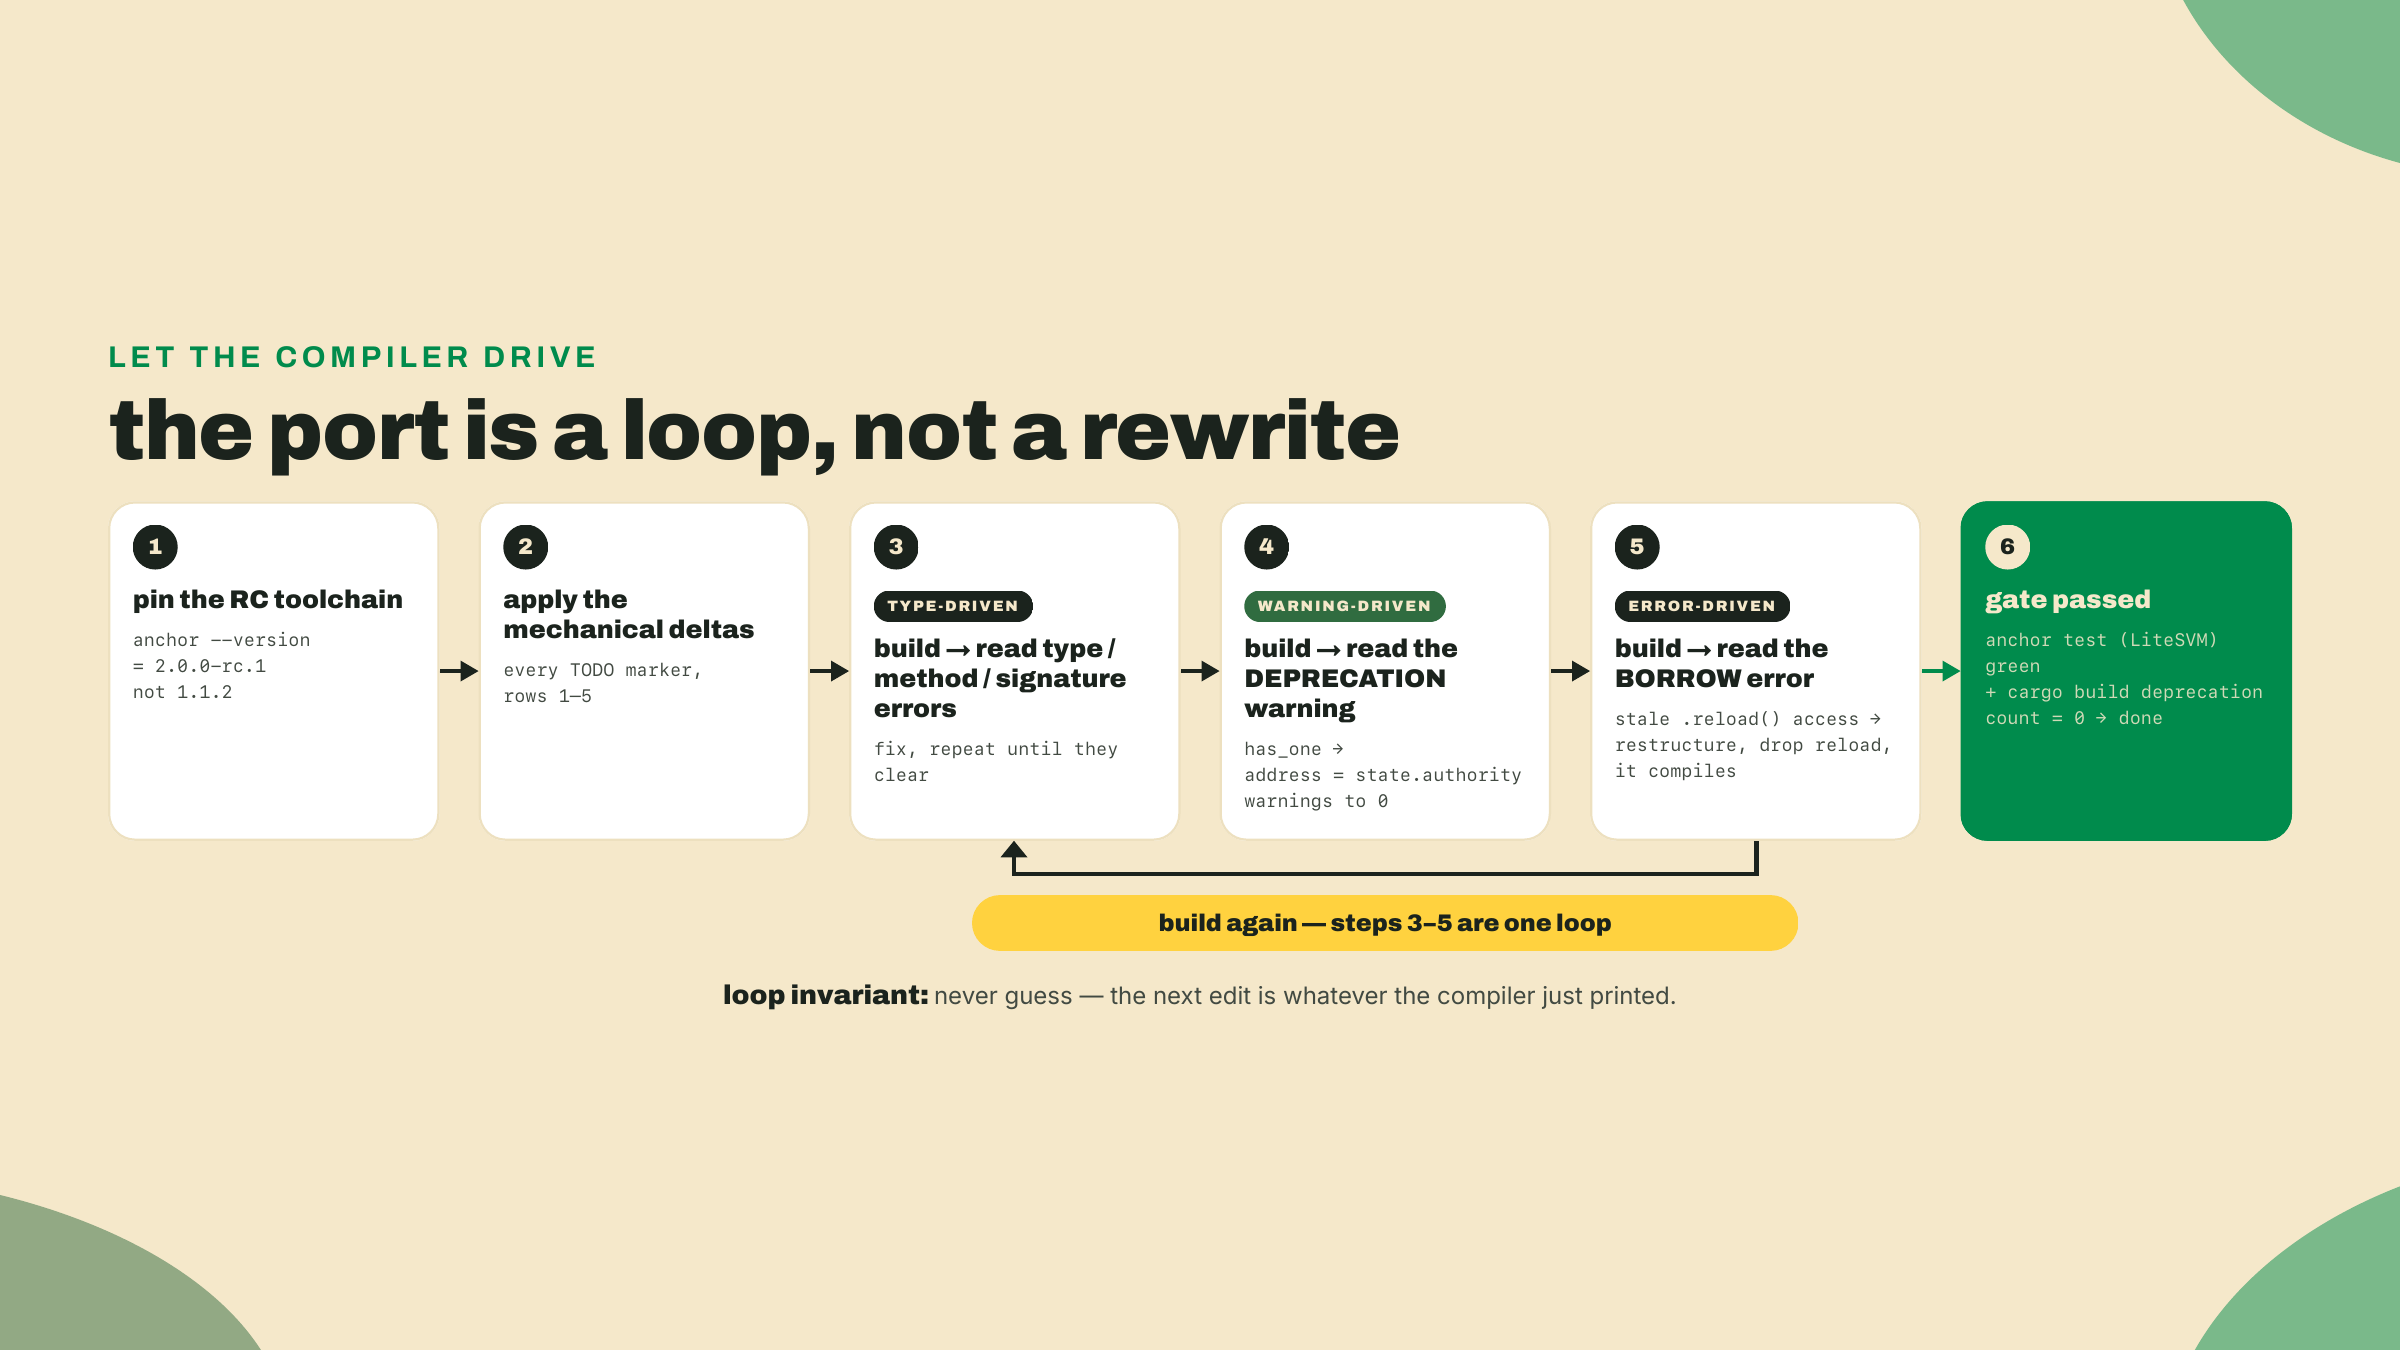
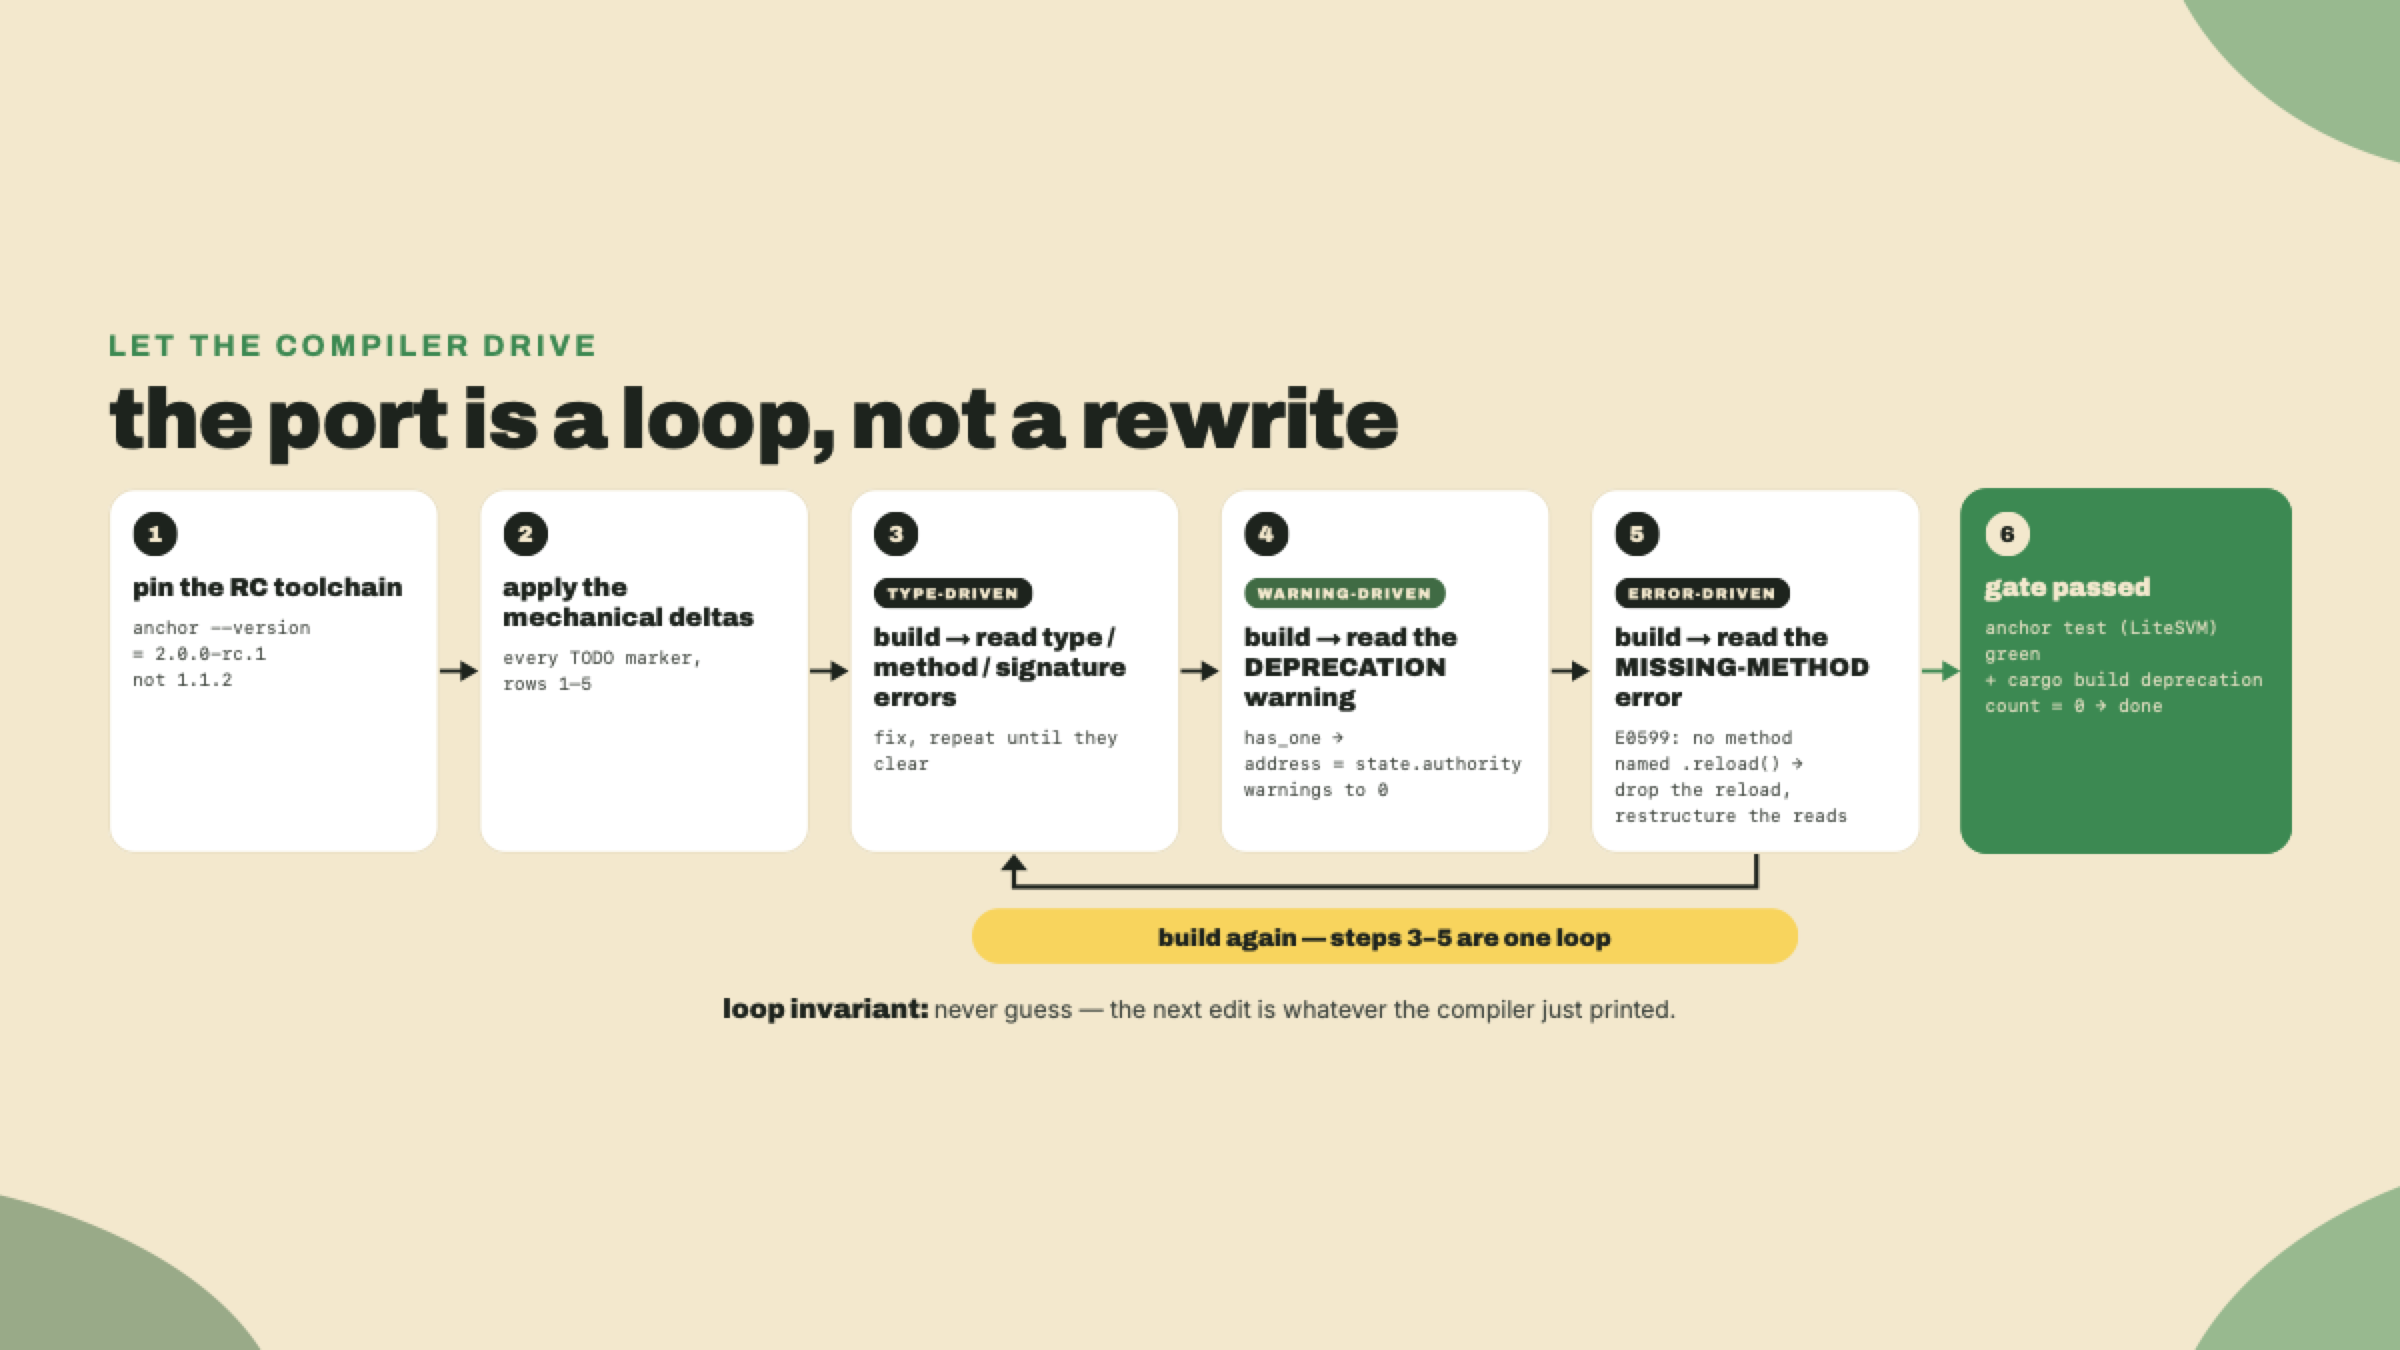
fix(anchor-v2): finish the m10-l3 one-error sweep and scope m01-l2's channel claim
m10-l3/lesson.yaml q3's explanation still taught the retired two-error model
(E0599 + E0502) that intro.md:117/:268 and the v04 asset had already been
corrected away from. Rewritten to the one-error truth: the lock falls on
precisely the accounts handed to the CPI, the copied v1 tail fails on E0599
alone, and the scalars are hoisted because `seeds` borrows `state_key`, not
because a typed read is illegal. q1's tell and q3 option b's feedback follow.
Question ids, option ids and `correct` flags are unchanged.

v06-timeline and v01-flowchart said the diagnostic that distinguishes a real
V2 build is a borrow error; it is the deprecations plus E0599 on `.reload()`.
v07-table row 2 still carried "the handle is a live view", which is wrong for
the BorshAccount this lesson loads. All three re-rendered.

m01-l2's "every later lesson pins and reproduces with --locked" claimed the
anchor-next branch build for lessons that pin `--tag v2.0.0-rc.1` (m10-l2,
m10-l3) or `--rev e4878b6d` (m08-l2). Scoped to what is true.

Changed region(s): [[0.0312, 0.2489, 0.9688, 0.7778], [0.9062, 0.8711, 1.0, 1.0], [0.9062, 0.0, 1.0, 0.1244]]

diff --git a/courses/mastering-anchor-v2/visual-src/m10-l3/v01-flowchart.html b/courses/mastering-anchor-v2/visual-src/m10-l3/v01-flowchart.html
@@ -12,8 +12,8 @@
 <body>
 <!-- flowchart: Which toolchain builds what
      purpose: show why building the port on the ambient 1.1.2 silently produces a v1 artifact, and where the isolated RC has to sit
-     data: Source (edited vault) -> decision: which anchor-cli is on PATH? branch A: anchor-cli 1.1.2 (ambient/host) -> "builds, no V2 errors" -> v1 artifact (WRONG, behaves like v1) branch B: anchor-cli 2.0.0-rc.1 (isolated, pinned in verify/Dockerfile) -> emits V2 deprecations + borrow errors -> V2 artifact (correct) note: the host box has 1.1.2 installed; the RC must be an isolated, pinned toolchain
-     prompt: Vertical decision flowchart. One source node at top splits on "which anchor-cli is on PATH?" into two branches. Left branch (1.1.2, host) ends in a red "v1 artifact, silently wrong" terminal. Right branch (2.0.0-rc.1, isolated + pinned) ends in a green "V2 artifact" terminal, with a callout that this branch is the one that produces the deprecation warnings and borrow errors the rest of the lesson relies on. Label the branches clearly; the failure mode is the teaching point.
+     data: Source (edited vault) -> decision: which anchor-cli is on PATH? branch A: anchor-cli 1.1.2 (ambient/host) -> "builds, no V2 errors" -> v1 artifact (WRONG, behaves like v1) branch B: anchor-cli 2.0.0-rc.1 (isolated, pinned in verify/Dockerfile) -> emits the V2 deprecations + the E0599 missing-method error on .reload() -> V2 artifact (correct) note: the host box has 1.1.2 installed; the RC must be an isolated, pinned toolchain
+     prompt: Vertical decision flowchart. One source node at top splits on "which anchor-cli is on PATH?" into two branches. Left branch (1.1.2, host) ends in a red "v1 artifact, silently wrong" terminal. Right branch (2.0.0-rc.1, isolated + pinned) ends in a green "V2 artifact" terminal, with a callout that this branch is the one that produces the deprecation warnings and the missing-method error the rest of the lesson relies on. Label the branches clearly; the failure mode is the teaching point.
      BUILD .viz as on-brand HTML per skills/content-gen/references/visual-rendering.md.
      Header: <div class="stbr-eyebrow">..</div> + <h2 class="viz-title">..</h2>.
      Leave the .stbr-decor block untouched (per-asset brand decoration).
@@ -104,7 +104,7 @@
       </div>
       <div class="fc-box">
         <div class="fc-h">builds clean — no V2 errors</div>
-        <div class="fc-p">no deprecations, no borrow errors, nothing to read</div>
+        <div class="fc-p">no deprecations, no missing-method error, nothing to read</div>
       </div>
       <div class="fc-term bad">
         <div class="fc-lab">terminal &middot; the failure mode</div>
@@ -120,7 +120,7 @@
         <div class="fc-p">pinned in <code>verify/Dockerfile</code>, never the host PATH</div>
       </div>
       <div class="fc-box">
-        <div class="fc-h">emits V2 deprecations + borrow errors</div>
+        <div class="fc-h">emits V2 deprecations + <code>E0599</code> on <code>.reload()</code></div>
         <div class="fc-p">the exact output the rest of this lesson reads as instructions</div>
       </div>
       <div class="fc-term good">

diff --git a/courses/mastering-anchor-v2/visual-src/m10-l3/v06-timeline.html b/courses/mastering-anchor-v2/visual-src/m10-l3/v06-timeline.html
@@ -12,7 +12,7 @@
 <body>
 <!-- timeline: The let-the-compiler-drive loop
      purpose: show the port as a repeatable edit/build/read-the-error loop rather than a one-shot rewrite
-     data: step 1: pin the RC toolchain (verify anchor --version = 2.0.0-rc.1, not 1.1.2) step 2: apply mechanical deltas at TODO markers (rows 1-5) step 3: build -> read type/method/signature errors -> fix -> repeat until they clear step 4: build -> read DEPRECATION warning (has_one) -> apply address = state.authority -> warnings to 0 step 5: build -> read BORROW error (stale .reload() access) -> restructure, drop reload -> compiles step 6: anchor test (LiteSVM) green + cargo build deprecation count = 0 -> done loop invariant: never guess; the next edit is whatever the compiler just printed
+     data: step 1: pin the RC toolchain (verify anchor --version = 2.0.0-rc.1, not 1.1.2) step 2: apply mechanical deltas at TODO markers (rows 1-5) step 3: build -> read type/method/signature errors -> fix -> repeat until they clear step 4: build -> read DEPRECATION warning (has_one) -> apply address = state.authority -> warnings to 0 step 5: build -> read the MISSING-METHOD error, E0599 no method named reload -> drop the reload, restructure the reads around the call -> compiles step 6: anchor test (LiteSVM) green + cargo build deprecation count = 0 -> done loop invariant: never guess; the next edit is whatever the compiler just printed
      prompt: Horizontal timeline of six steps left to right, with a looping arrow between the build steps (3, 4, 5) back to "build again" to convey iteration. Mark steps 4 and 5 with distinct accent badges ("warning-driven", "error-driven"). End node is a green "gate passed" marker. Include the loop invariant as a caption under the middle of the track. Keep it clean and process-focused.
      BUILD .viz as on-brand HTML per skills/content-gen/references/visual-rendering.md.
      Header: <div class="stbr-eyebrow">..</div> + <h2 class="viz-title">..</h2>.
@@ -94,8 +94,8 @@
     <div class="st">
       <div class="dot">5</div>
       <span class="chip">error-driven</span>
-      <div class="h">build &rarr; read the BORROW error</div>
-      <div class="m">stale .reload() access &rarr;<br>restructure, drop reload,<br>it compiles</div>
+      <div class="h">build &rarr; read the MISSING-METHOD error</div>
+      <div class="m">E0599: no method<br>named .reload() &rarr;<br>drop the reload,<br>restructure the reads</div>
     </div>
     <div class="tconn"><svg width="26" height="16" viewBox="0 0 26 16"><line x1="0" y1="8" x2="15" y2="8" stroke="#008b4c" stroke-width="2.5"/><polygon points="14,1 26,8 14,15" fill="#008b4c"/></svg></div>
 

diff --git a/courses/mastering-anchor-v2/visual-src/m10-l3/v07-table.html b/courses/mastering-anchor-v2/visual-src/m10-l3/v07-table.html
@@ -98,7 +98,7 @@
           <div class="tk">the compiler &mdash; missing method</div>
           <div class="tm"><span class="hl">error[E0599]</span>: no method named<br>&nbsp;&nbsp;`reload` found &mdash; the type<br>&nbsp;&nbsp;has no such method in V2</div>
         </td>
-        <td class="act">Delete the reload and take the counter&rsquo;s typed borrow <b>after</b> the call &mdash; the handle is a live view, so there is nothing to refresh.</td>
+        <td class="act">Delete the reload and take the counter&rsquo;s typed borrow <b>after</b> the call &mdash; nothing changes underneath a loaded typed account, so there is nothing to refresh.</td>
       </tr>
       <tr>
         <td class="n">3</td>

diff --git a/courses/mastering-anchor-v2/lessons/m01-l2/intro.md b/courses/mastering-anchor-v2/lessons/m01-l2/intro.md
@@ -66,7 +66,7 @@ Note what is *not* happening here, because it is a story you will hear told wron
 
 ![avm install fetches a prebuilt binary from the v2 tag's release assets, hits a 404 because no Release was ever cut, and aborts, so the documented cargo git install takes over.](assets/v02-flowchart.png)
 
-For completeness: `avm install` does carry a `--from-source` flag, which skips the download and hands the job to `cargo install --git https://github.com/otter-sec/anchor --tag v2.0.0-rc.1`. That is a different command from the one this course runs, against a tag rather than the branch. The channel the V2 docs publish, and the one every later lesson pins and reproduces with `--locked`, is the `anchor-next` branch build below. Use that one, so that what you install matches what the rest of the course was verified against.
+For completeness: `avm install` does carry a `--from-source` flag, which skips the download and hands the job to `cargo install --git https://github.com/otter-sec/anchor --tag v2.0.0-rc.1`. That is a different command from the one this lesson runs, against a tag rather than the branch. The channel the V2 docs publish, and the one you install below, is the `anchor-next` branch build. Use that one, so that what you install matches what the rest of the course was verified against. Most later lessons reprint exactly that command with `--locked`; the few that need a frozen toolchain — m08-l2's verifiable build, and the module 10 ports — pin a fixed point on the same branch instead, by `--rev` or by `--tag v2.0.0-rc.1`.
 
 There is a naming trap worth flagging before it bites you. If you go searching crates.io for `avm` itself, you will find one, and it is **not this tool**. The `avm` crate on crates.io is an unrelated package from 2016 (schultyy/avm). Anchor's version manager is not distributed under that crate name, it installs from the Anchor repo. Install the wrong `avm` and you will spend an hour confused about why none of the commands exist.
 

diff --git a/courses/mastering-anchor-v2/lessons/m10-l3/intro.md b/courses/mastering-anchor-v2/lessons/m10-l3/intro.md
@@ -65,7 +65,7 @@ COPY . .
 CMD ["anchor", "test"]
 ```
 
-![Building on the host's anchor-cli 1.1.2 silently yields a v1 artifact; only the isolated, pinned 2.0.0-rc.1 toolchain emits the V2 errors and a real V2 build.](assets/v01-flowchart.png)
+![Building on the host's anchor-cli 1.1.2 silently yields a v1 artifact; only the isolated, pinned 2.0.0-rc.1 toolchain emits the V2 deprecations and the missing-method error, and a real V2 build.](assets/v01-flowchart.png)
 
 That is the load-bearing setup. Get it wrong and every code edit below is theater. Get it right and the compiler starts doing your job for you.
 
